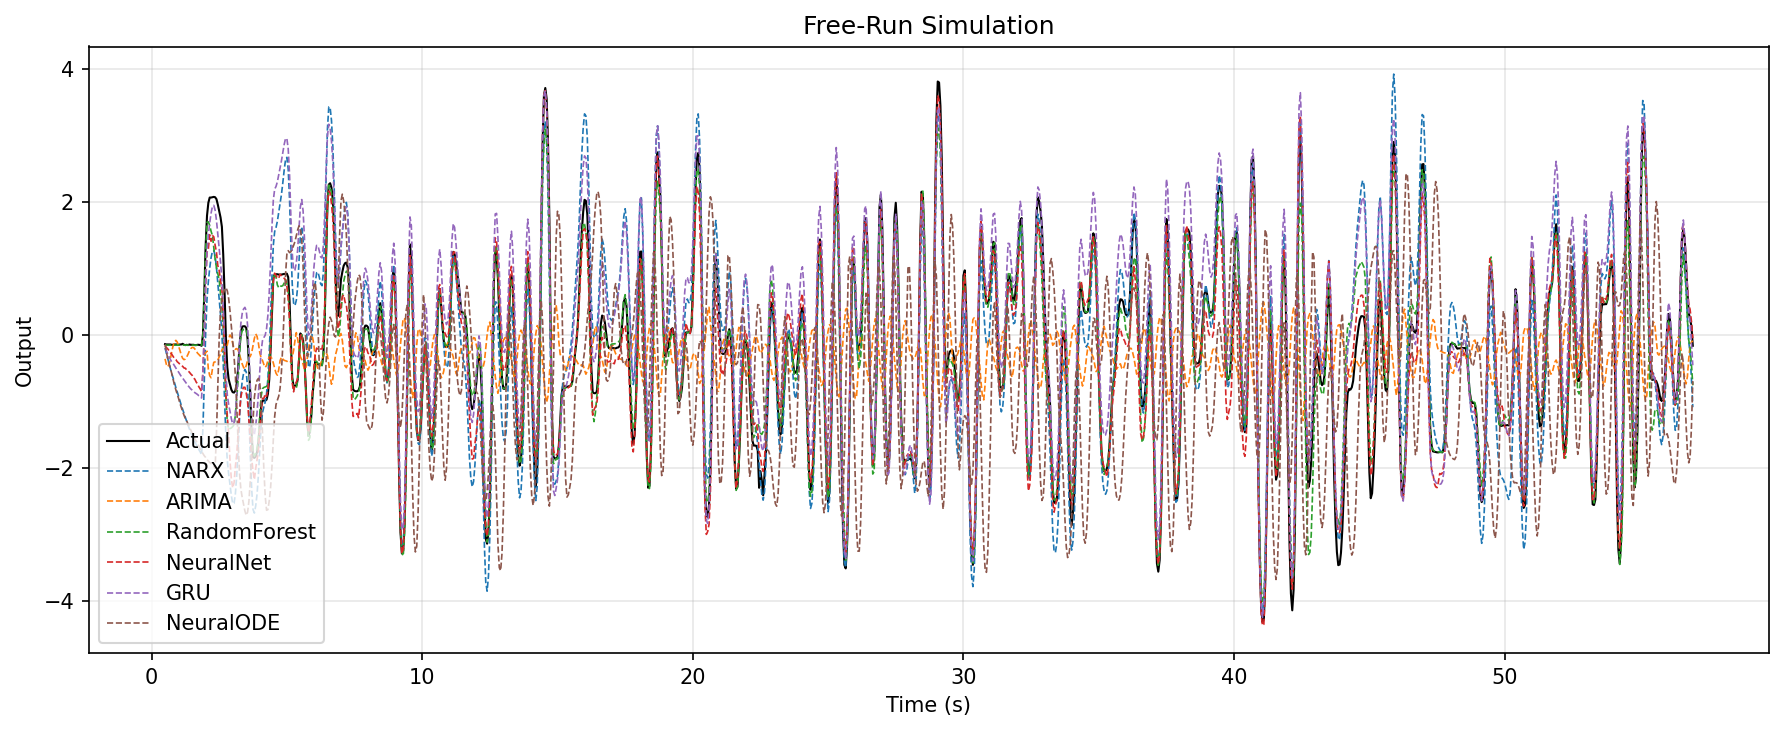
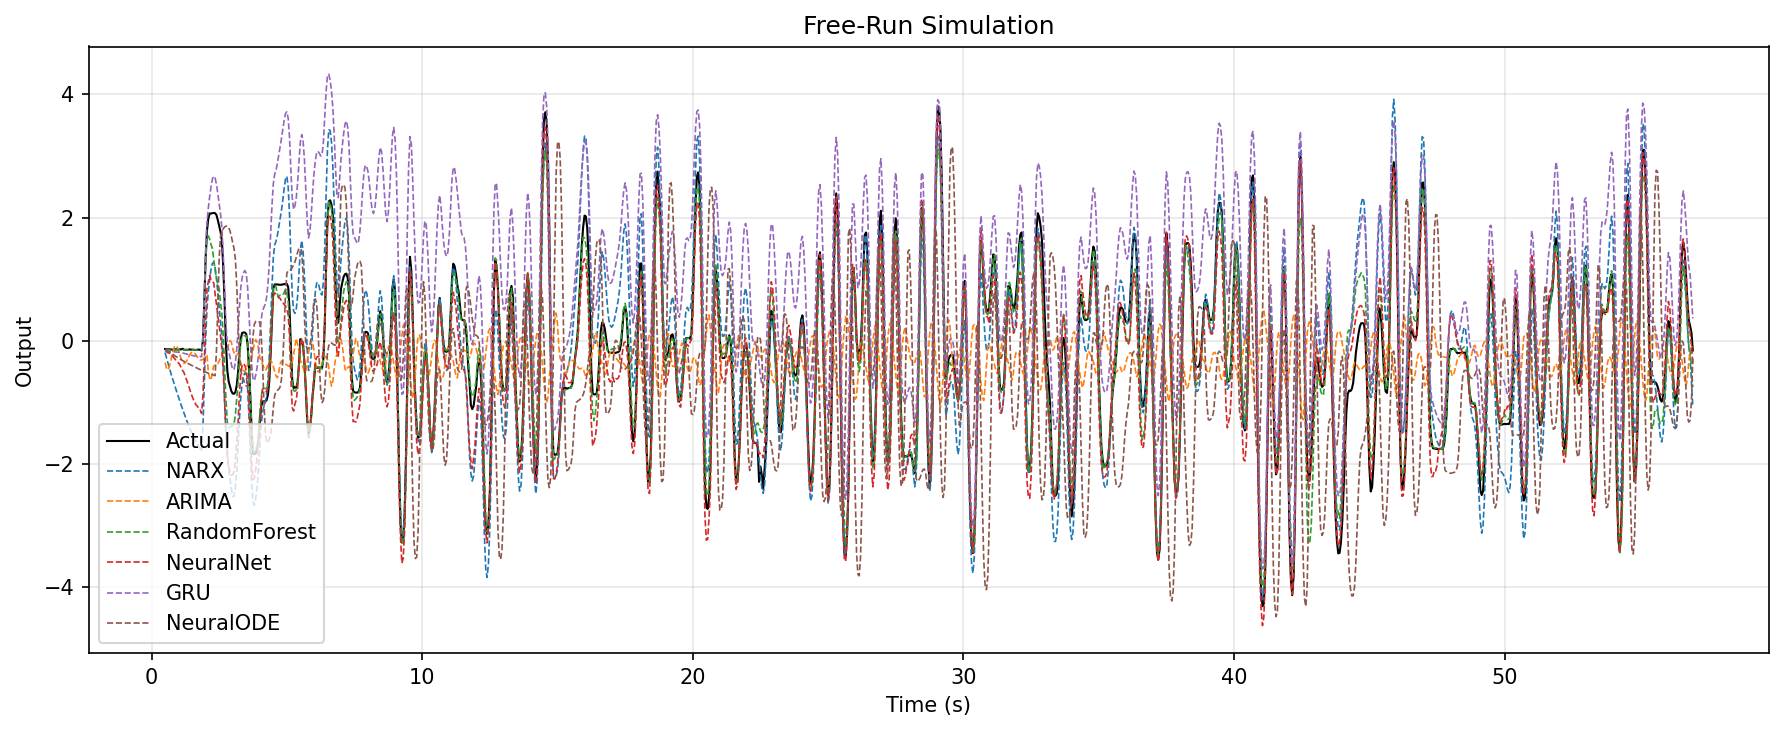
new

diff --git a/control_helon/validation/metrics.py b/control_helon/validation/metrics.py
@@ -50,17 +50,17 @@ class Metrics:
     @staticmethod
     def fit_percent(y_true: np.ndarray, y_pred: np.ndarray) -> float:
         """
-        MATLAB-style FIT percentage.
+        MATLAB-style FIT (normalized to 0-1 range).
         
-        FIT = 100 * (1 - norm(y-ŷ)/norm(y-mean(y)))
+        FIT = 1 - norm(y-ŷ)/norm(y-mean(y))
         """
         y_true, y_pred = _align_arrays(y_true, y_pred)
         y_mean = np.mean(y_true)
         norm_err = np.linalg.norm(y_true - y_pred)
         norm_ref = np.linalg.norm(y_true - y_mean)
         if norm_ref == 0:
-            return 100.0
-        return float(100 * (1 - norm_err / norm_ref))
+            return 1.0
+        return float(1 - norm_err / norm_ref)
 
     @staticmethod
     def compute_all(

diff --git a/control_helon/examples/model_comparison.py b/control_helon/examples/model_comparison.py
@@ -75,15 +75,15 @@ def main():
         "RandomForest": RandomForest(nu=nu, ny=ny, n_estimators=50, max_depth=10),
         "NeuralNet": NeuralNetwork(
             nu=nu, ny=ny, hidden_layers=[64, 64, 64],
-            epochs=50, learning_rate=1e-3
+            epochs=100, learning_rate=1e-3
         ),
         "GRU": GRU(
             nu=nu, ny=ny, hidden_size=32, num_layers=2,
-            epochs=30, learning_rate=1e-3
+            epochs=100, learning_rate=1e-3
         ),
         "NeuralODE": NeuralODE(
             state_dim=1, input_dim=1, hidden_layers=[32, 32],
-            epochs=30, dt=0.05, solver="rk4"
+            epochs=100, dt=0.05, solver="rk4"
         ),
     }
     
